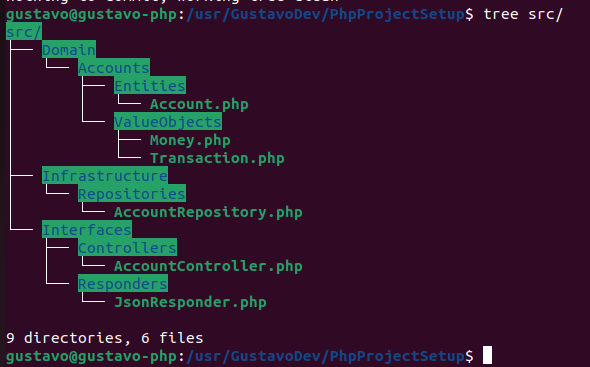
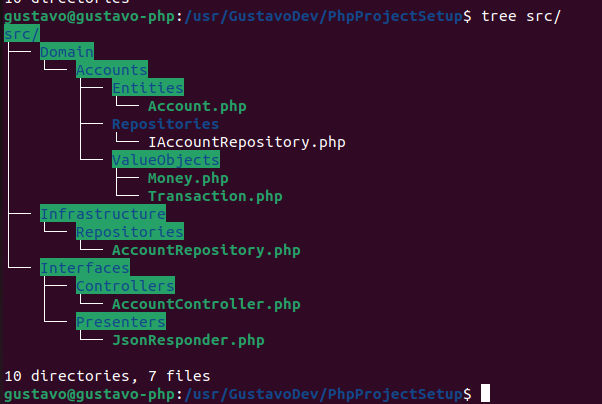
interface repository

Changed region(s): [[0.0, 0.0, 0.9763, 0.8692], [0.0, 0.8992, 0.8542, 1.0]]

diff --git a/src/Infrastructure/Repositories/AccountRepository.php b/src/Infrastructure/Repositories/AccountRepository.php
@@ -4,8 +4,9 @@ namespace gustavo\vinicius\Infrastructure\Repositories;
 
 use gustavo\vinicius\Domain\Accounts\Entities\Account;
 use gustavo\vinicius\Domain\Accounts\ValueObjects\Money;
+use gustavo\vinicius\Domain\Accounts\Repositories\IAccountRepository;
 
-class AccountRepository
+class AccountRepository implements IAccountRepository
 {
     // Get data from source (DB, InMemory)
     protected $accounts = [

diff --git a/src/Interfaces/Controllers/AccountController.php b/src/Interfaces/Controllers/AccountController.php
@@ -5,7 +5,7 @@ namespace gustavo\vinicius\Interfaces\Controllers;
 use Psr\Http\Message\ResponseInterface as Response;
 use Psr\Http\Message\ServerRequestInterface as Request;
 use gustavo\vinicius\Infrastructure\Repositories\AccountRepository;
-use gustavo\vinicius\Interfaces\Responders\JsonResponder;
+use gustavo\vinicius\Interfaces\Presenters\JsonResponder;
 
 class AccountController
 {

diff --git a/src/Domain/Accounts/Repositories/IAccountRepository.php b/src/Domain/Accounts/Repositories/IAccountRepository.php
@@ -1,0 +1,8 @@
+<?php
+
+namespace gustavo\vinicius\Domain\Accounts\Repositories;
+
+interface IAccountRepository
+{
+    public function findAll();
+}

diff --git a/src/Interfaces/Presenters/JsonResponder.php b/src/Interfaces/Presenters/JsonResponder.php
@@ -1,6 +1,6 @@
 <?php
 
-namespace gustavo\vinicius\Interfaces\Responders;
+namespace gustavo\vinicius\Interfaces\Presenters;
 
 class JsonResponder
 {
